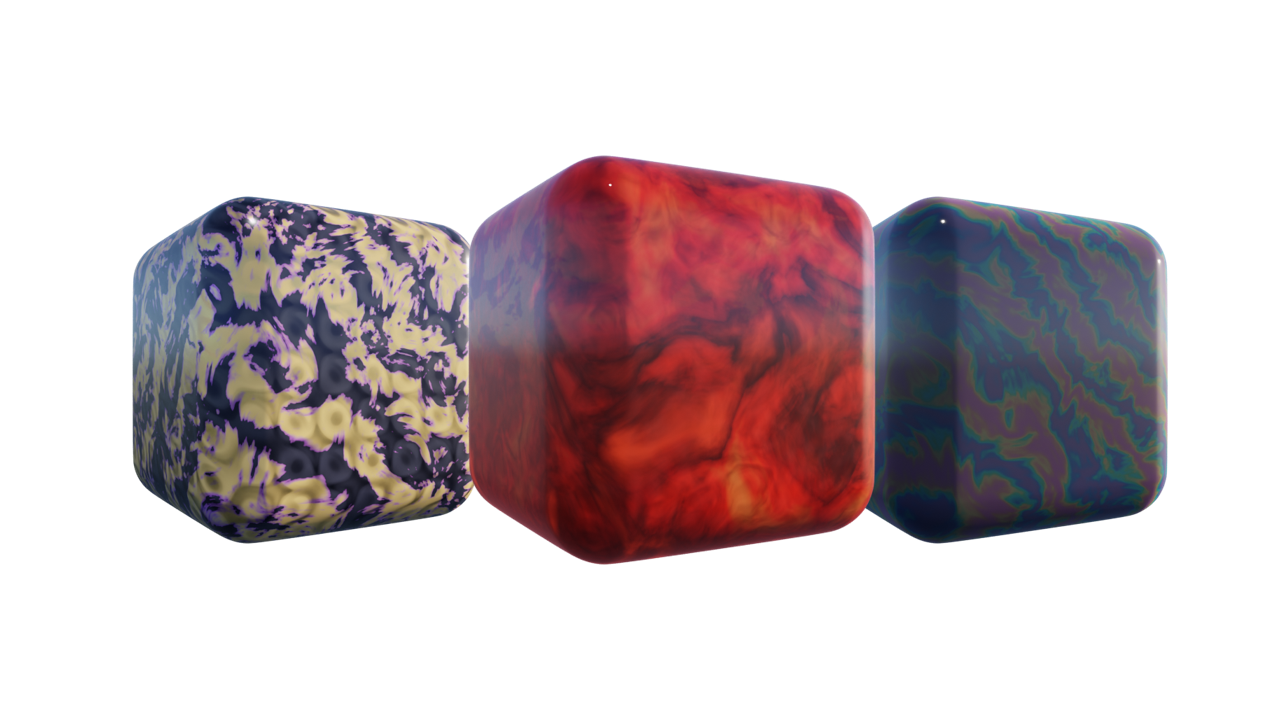
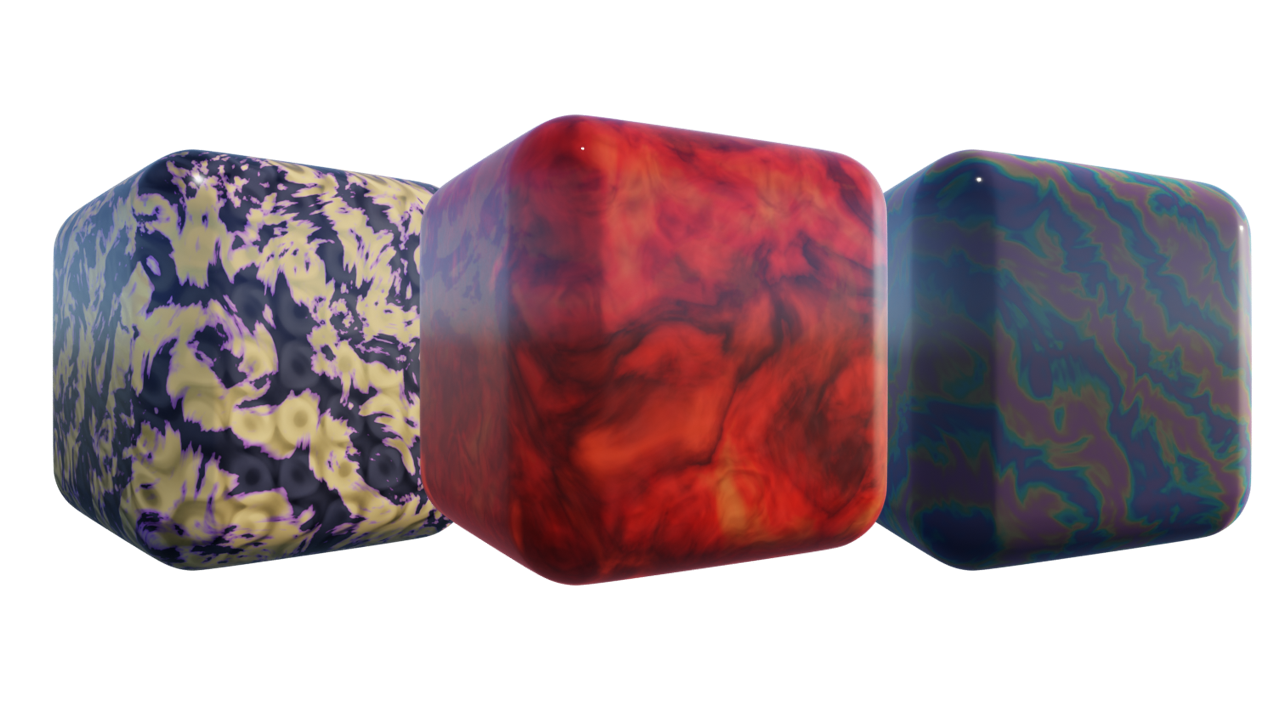
Fix: hide dev placeholder hints (overlaid every image) + fuller hero
Big visible bug: the "Drop in assets/images/..." placeholder text sat ON
TOP of every real image (hero, layer-type cubes, etc.). The hide rule was
gated on an `is-filled` class that main.js never set, so the dev hints
always showed. Placeholders are now hidden globally — they were only ever
a dev drop-in guide and must not appear on the public site. Frames with
no image (e.g. bake) just show a clean dark surface.

Also regenerated hero.png: bigger cubes bleeding to the frame edges
(Galaxy + Plasma front + Oil Slick) so the montage fills the 16:9 box
instead of floating small in the centre.

🤖 Generated with [Claude Code](https://claude.com/claude-code)

diff --git a/css/layout.css b/css/layout.css
@@ -73,15 +73,11 @@
 .media-frame--screenshot-smart-masks  { background-image: url('../assets/images/screenshots/smart-masks.png');  }
 .media-frame--screenshot-bake         { background-image: url('../assets/images/screenshots/bake.png');         }
 
-/* When a media-frame has a real image set, hide the placeholder hint.
-   Detection: any modifier that has a background-image whose URL doesn't
-   404. There's no CSS-native "image loaded" hook, so we keep this opt-in:
-   on missing images the placeholder remains a useful drop-in guide;
-   when you add the file the image renders on top and the placeholder
-   text overlays it (mostly transparent). If overlay becomes annoying,
-   add the `is-filled` class to the media-frame to hide the placeholder.
-*/
-.media-frame.is-filled .placeholder { display: none; }
+/* Placeholders are a DEV-ONLY drop-in guide ("Drop in <path>"). They must
+   never show on the public site — hidden globally. A frame with no image
+   simply shows its clean dark surface. (Was gated on an `is-filled` class
+   that nothing ever set, so the dev hints overlaid every real image.) */
+.media-frame .placeholder { display: none; }
 
 /* ── Placeholder ── */
 .placeholder {
